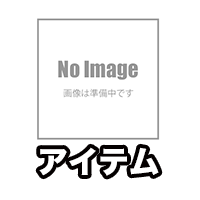
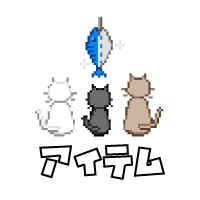
tnkのアイコンを適用しました

Changed region(s): [[0.18, 0.06, 0.84, 0.9]]

diff --git a/web/js/common.js b/web/js/common.js
@@ -39,7 +39,7 @@ function getMenuButtonFooter(message) {
 	footerHTML += '<div class="btn btn-custom" data-color="yellow" data-type="footer" onclick="location.href=\'search.html\'"><img src="images/search.png"></div>';
 	footerHTML += '<div class="btn btn-custom" data-color="yellow" data-type="footer" onclick="location.href=\'upload.html\'"><img src="images/upload.png"></div>';
 	footerHTML += '<div class="btn btn-custom" data-color="yellow" data-type="footer" onclick="location.href=\'my-nyavatars.html\'"><img src="images/my-nyavatars.png"></div>';
-	footerHTML += '<div class="btn btn-custom" data-color="yellow" data-type="footer" onclick="location.href=\'scanner.html\'"><img src="images/scanner.png"></div>';
+	footerHTML += '<div class="btn btn-custom" data-color="yellow" data-type="footer" onclick="location.href=\'scanner.html\'"><img src="images/scanya.png"></div>';
 	footerHTML += '<div class="btn btn-custom" data-color="yellow" data-type="footer" onclick="location.href=\'items.html\'"><img src="images/items.png"></div>';
 	footerHTML += '<div class="btn btn-custom" data-color="yellow" data-type="footer" onclick="location.href=\'shop.html\'"><img src="images/shop.png"></div>';
 	footerHTML += '</div>';

diff --git a/web/scanner.html b/web/scanner.html
@@ -99,7 +99,7 @@
 	<p class="text-center">↓すきゃにゃーボタン↓</p>
 	<div class="row text-center">	
 		<div class="col-xs-12">
-			<div class="btn btn-custom text-left" data-color="pink" data-type="img-btn-200x200" onclick="location.href='result.html'"><img src="images/top.png"></div>
+			<div class="btn btn-custom text-left" data-color="pink" data-type="img-btn-200x200" onclick="location.href='result.html'"><img src="images/scanya.png"></div>
 		</div>	
 	</div>
 	
